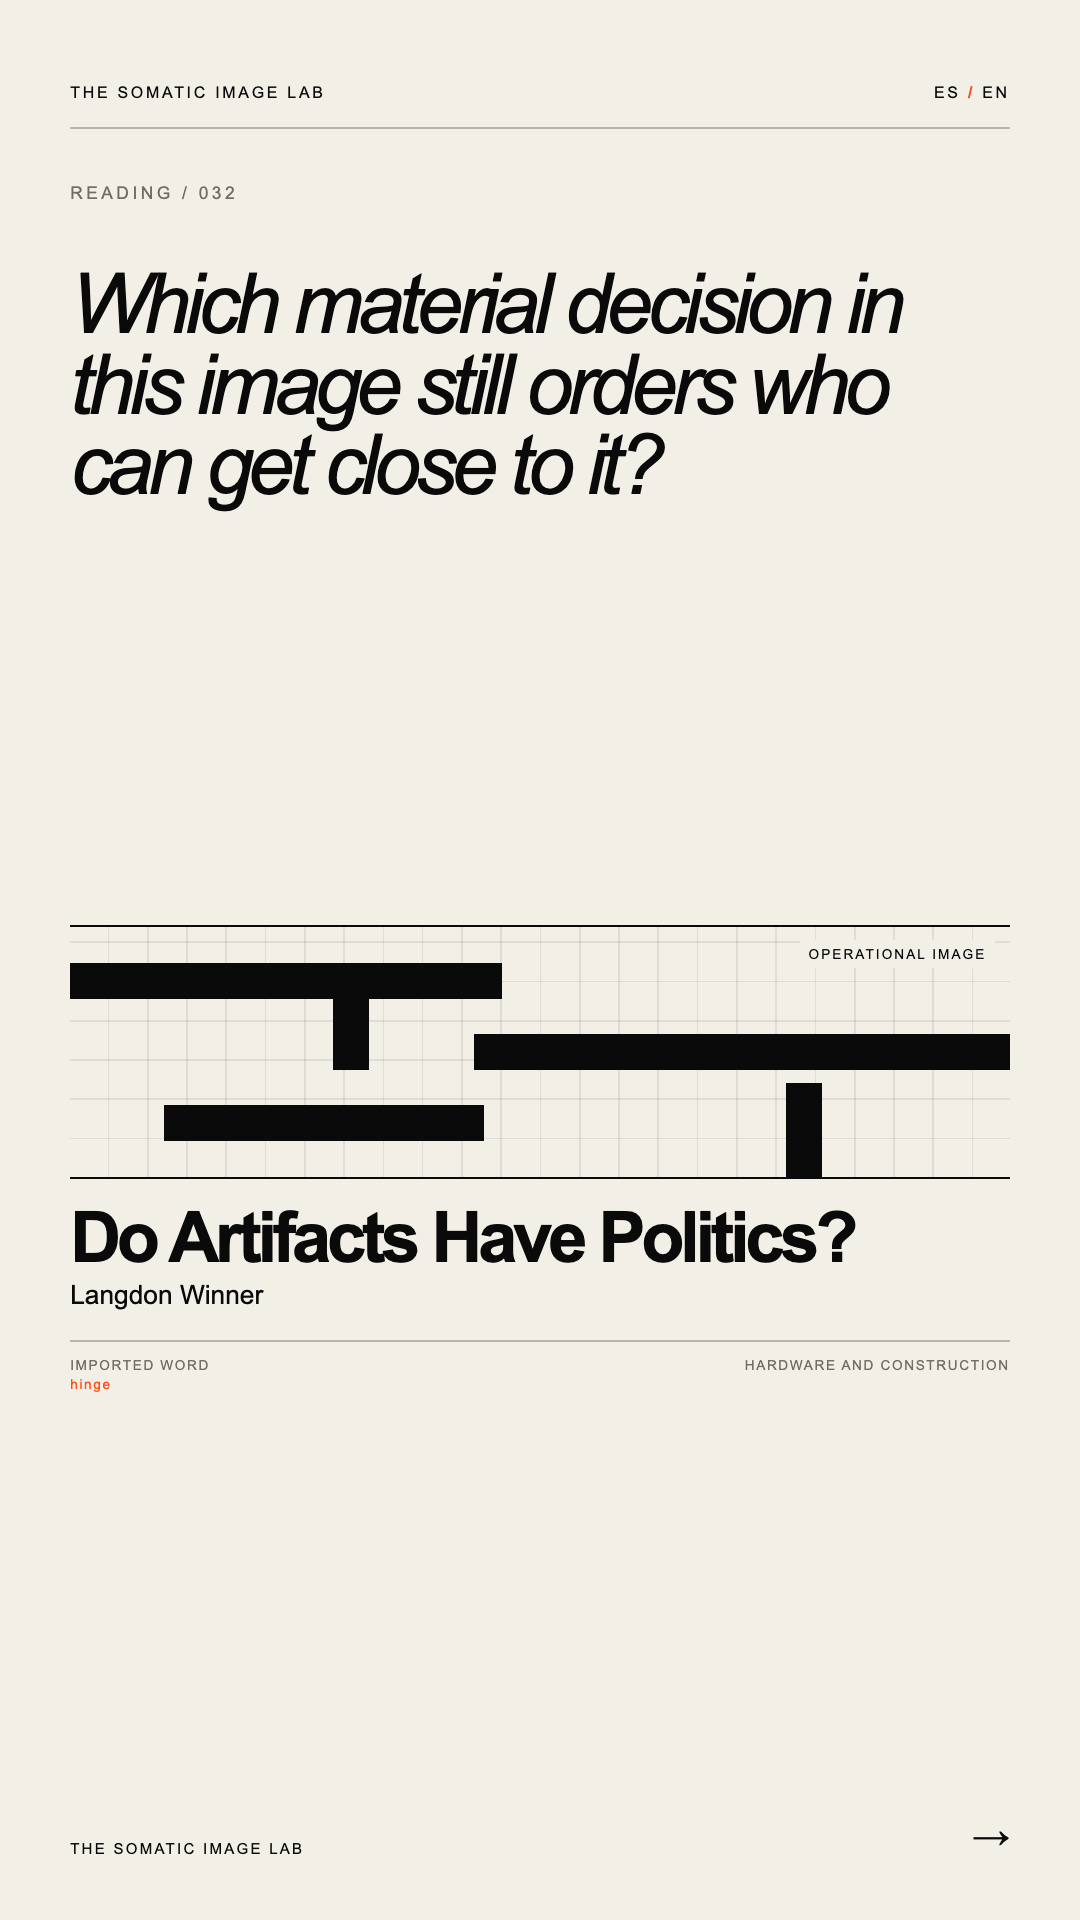
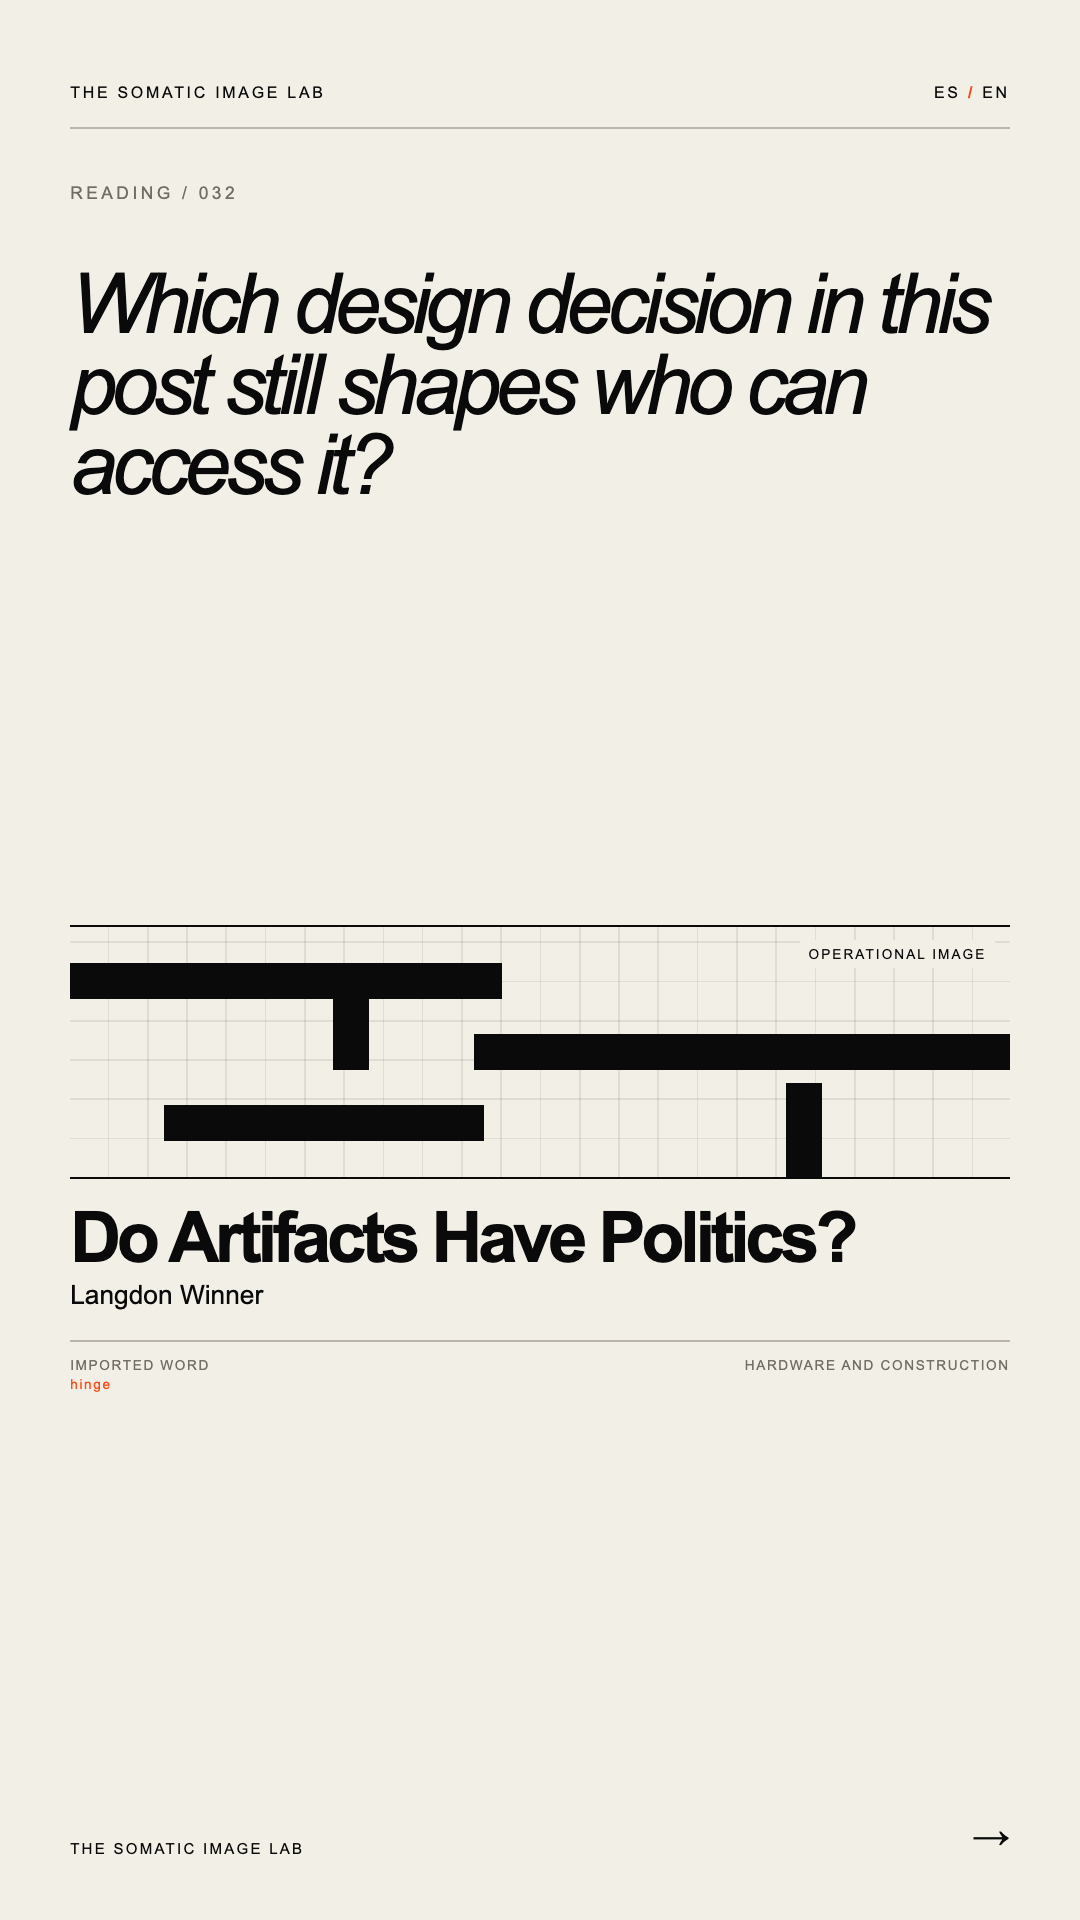
Refine Winner reading prompt

Changed region(s): [[0.0611, 0.125, 0.9167, 0.2812]]

diff --git a/readings/032-langdon-winner-do-artifacts-have-politics/index.html b/readings/032-langdon-winner-do-artifacts-have-politics/index.html
@@ -30,8 +30,8 @@
       <h1 class="title" data-copy="es"><span class="mis" data-text="ARTEFACTOS">ARTEFACTOS</span><br>POLÍTICOS</h1>
       <h1 class="title" data-copy="en"><span class="mis" data-text="POLITICAL">POLITICAL</span><br>ARTIFACTS</h1>
       <div class="author">Langdon Winner</div>
-      <div class="ante article-ante" data-copy="es">¿Qué decisión material de esta imagen sigue ordenando quién puede acercarse a ella?</div>
-      <div class="ante article-ante" data-copy="en">Which material decision in this image still orders who can get close to it?</div>
+      <div class="ante article-ante" data-copy="es">¿Qué decisión de diseño de este post sigue determinando quién puede acceder a él?</div>
+      <div class="ante article-ante" data-copy="en">Which design decision in this post still shapes who can access it?</div>
       <div class="lead" data-copy="es">Para Winner, un artefacto no es solo una herramienta: su diseño puede distribuir acceso, autoridad y posibilidades de acción.</div>
       <div class="lead" data-copy="en">For Winner, an artifact is not only a tool: its design can distribute access, authority and possibilities for action.</div>
     </section>
